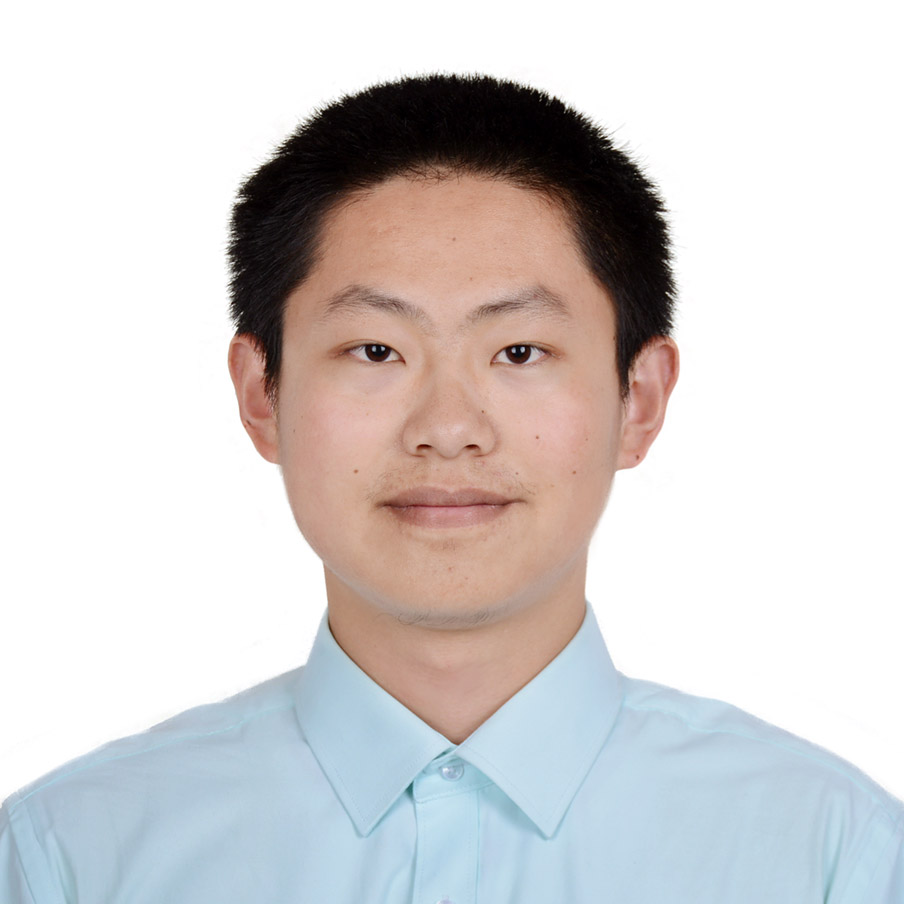
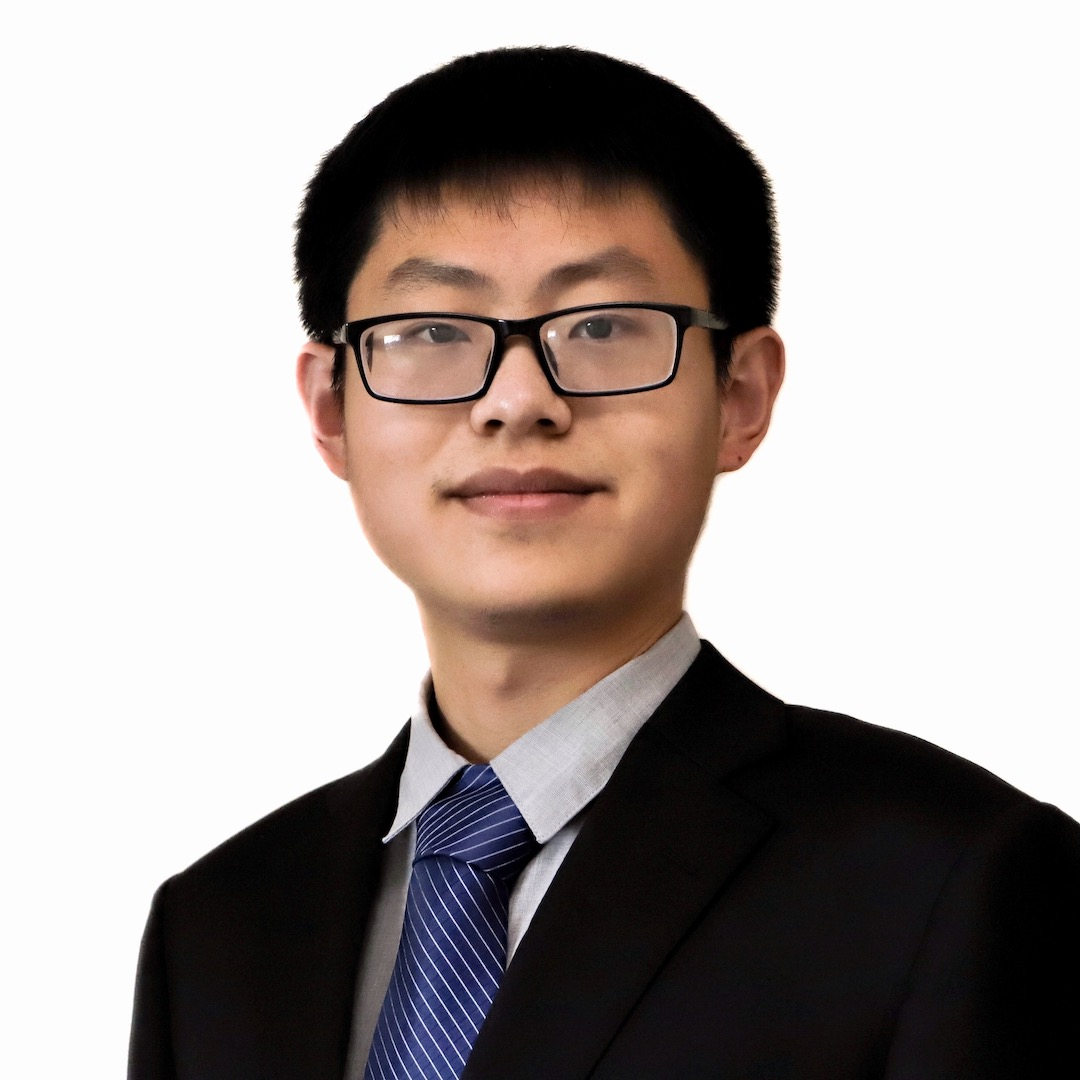
update profile figure and contact

diff --git a/_pages/about.md b/_pages/about.md
@@ -274,13 +274,9 @@ Awards & Scholarship
 Non-academic
 ======
 * Sports: When I'm not working in the lab, you may find me running or playing table tennis on the court at Georgia Tech.
-  * Running: I finished the half-marathon in the 2015 Hefei International Marathon Competition.
-  * Table Tennis: I am a member of [GTTTA](http://tta.gtorg.gatech.edu/).
 * Literature & music: I love reading novels and listening to music.
 
 
 Contact
 ======
-* Email: <yanzhaowu@gatech.edu> \| <yanzhaowumail@gmail.com>
-* Office: Klaus Advanced Computing Building, Room 3337
-* Address: 266 Ferst Dr. KACB 3337, Atlanta, GA 30332-0765
+* Email: <yanzhaowumail@gmail.com>
